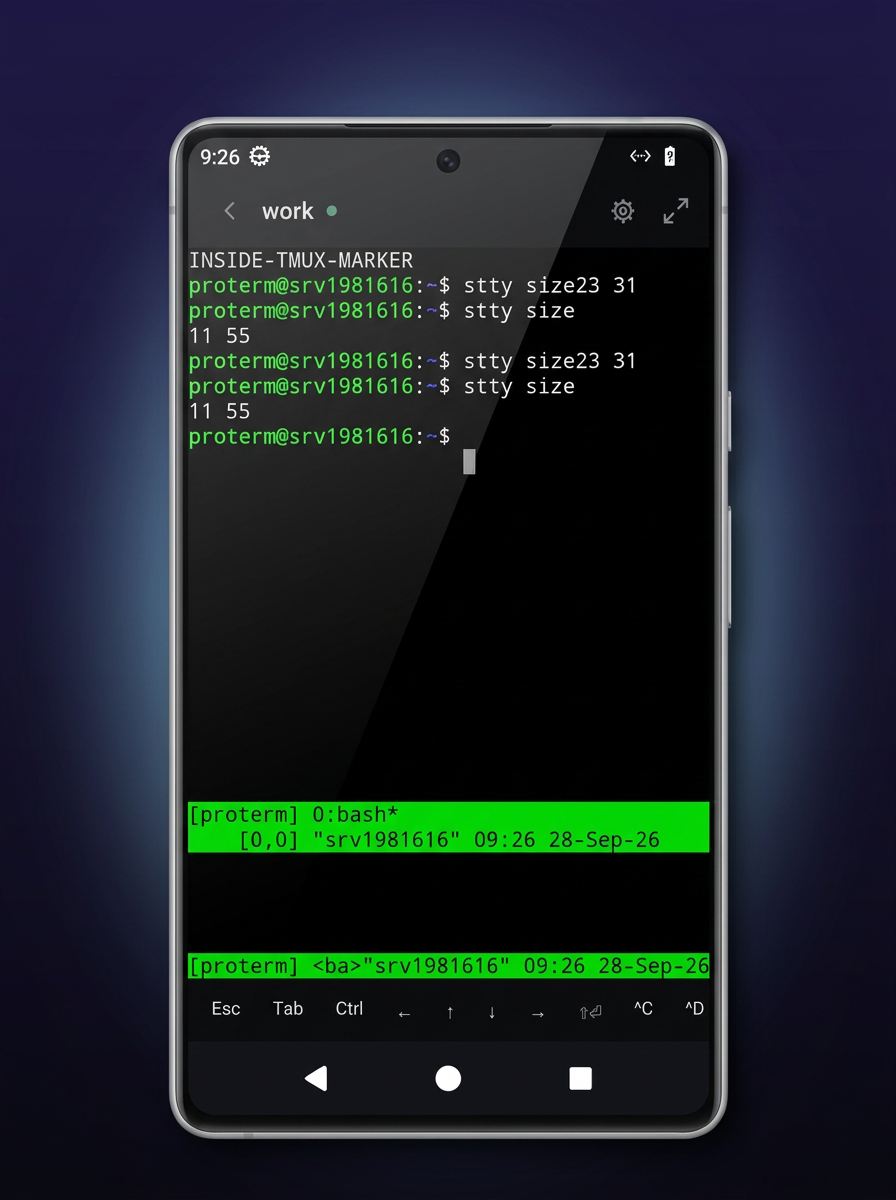
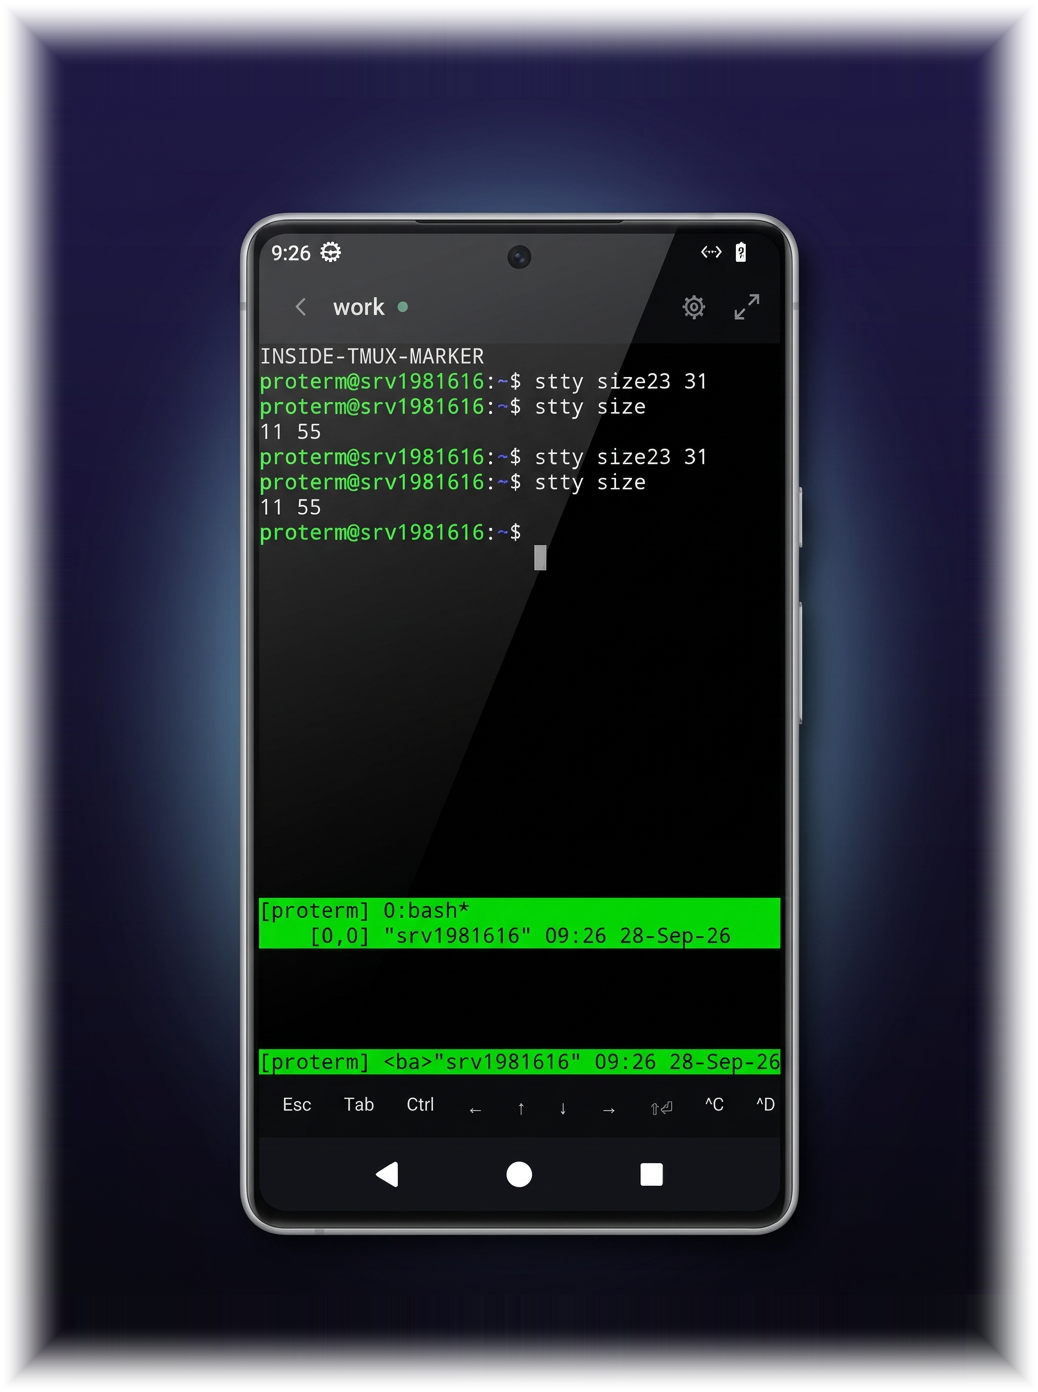
Merge the page into the hero field; invert to light text
- page field (--bg-top:#202049 -> --bg:#0e0e1a) sampled from the hero image's own
  top and bottom edges, applied as a fixed gradient on body
- hero image edge-replicated ~8% and given a smoothstep alpha feather, so it
  dissolves into the field with no frame, border or shadow
- force a dark scheme (color-scheme: dark) and light text, so the merge holds
  regardless of OS theme
- header, cards and footer retuned to the indigo field

diff --git a/styles.css b/styles.css
@@ -1,35 +1,35 @@
-/* Bitlane / ProTerm — Linear-anchored tokens mirrored from the app
-   (android/.../ui/theme/Color.kt, Tokens.kt). No JavaScript, no build step. */
+/* Bitlane / ProTerm — Linear-anchored tokens, set to the hero image's field so the
+   two merge. No JavaScript, no build step. */
 
 :root{
-  --bg:#0b0c0e;
-  --surface:#121316;
-  --elev:#1c1e23;
-  --line:#23252b;
-  --line2:#2c2f36;
-  --fg:#e8e8ea;
-  --muted:#8a8f98;
-  --faint:#62666d;
-  --accent:#5e6ad2;
-  --accent-hi:#6c77df;
+  color-scheme: dark;
+  --bg-top:#202049;      /* matches the top of the hero image */
+  --bg-mid:#14132b;
+  --bg:#0e0e1a;          /* matches the bottom of the hero image */
+  --surface:#17172b;
+  --elev:#20203a;
+  --line:#2a2a44;
+  --line2:#373754;
+  --fg:#ececf2;
+  --muted:#9b9bb4;
+  --faint:#6d6d88;
+  --accent:#8a93ee;
+  --accent-hi:#a2aaf6;
   --radius:8px;
   --radius-card:14px;
   --sans:-apple-system,BlinkMacSystemFont,"Segoe UI",Inter,Roboto,Helvetica,Arial,sans-serif;
   --mono:ui-monospace,SFMono-Regular,"SF Mono",Menlo,Consolas,"Liberation Mono",monospace;
 }
-@media (prefers-color-scheme: light){
-  :root{
-    --bg:#fafafa; --surface:#ffffff; --elev:#e9e9eb; --line:#e2e2e5; --line2:#c7c7cc;
-    --fg:#16161a; --muted:#66666e; --faint:#9a9aa2; --accent:#5e6ad2; --accent-hi:#4b57c8;
-  }
-}
 
 *{box-sizing:border-box}
 html{scroll-behavior:smooth}
 body{
-  margin:0;background:var(--bg);color:var(--fg);
+  margin:0;color:var(--fg);
   font-family:var(--sans);font-size:16px;line-height:1.6;
   -webkit-font-smoothing:antialiased;text-rendering:optimizeLegibility;
+  background-color:var(--bg);
+  background-image:linear-gradient(180deg, var(--bg-top) 0%, var(--bg-mid) 55%, var(--bg) 100%);
+  background-attachment:fixed;
 }
 a{color:var(--accent);text-decoration:none}
 a:hover{color:var(--accent-hi);text-decoration:underline}
@@ -42,8 +42,9 @@ code,.mono{font-family:var(--mono);font-size:.9em}
 .narrow{max-width:720px;margin:0 auto;padding:0 24px}
 
 /* Header */
-.site-header{position:sticky;top:0;z-index:20;border-bottom:1px solid var(--line);
-  background:var(--bg);background:color-mix(in srgb, var(--bg) 82%, transparent);
+.site-header{position:sticky;top:0;z-index:20;
+  background:var(--bg-top);
+  background:color-mix(in srgb, var(--bg-top) 62%, transparent);
   backdrop-filter:saturate(140%) blur(12px)}
 .site-header .wrap{display:flex;align-items:center;gap:20px;height:60px}
 .brand{display:flex;align-items:center;gap:9px;font-weight:600;color:var(--fg)}
@@ -58,16 +59,16 @@ code,.mono{font-family:var(--mono);font-size:.9em}
 .btn{display:inline-flex;align-items:center;gap:9px;padding:11px 18px;border-radius:var(--radius);
   font-size:14px;font-weight:600;border:1px solid transparent;transition:background .15s,border-color .15s,color .15s}
 .btn:hover{text-decoration:none}
-.btn-primary{background:#fff;color:#0b0c0e}
-.btn-primary:hover{background:#e9e9eb;color:#0b0c0e}
+.btn-primary{background:#fff;color:#16162a}
+.btn-primary:hover{background:#e9e9ef;color:#16162a}
 .btn-ghost{border-color:var(--line2);color:var(--fg)}
-.btn-ghost:hover{border-color:var(--muted);background:var(--surface);color:var(--fg)}
-.btn-disabled{background:var(--elev);color:var(--muted);border-color:var(--line2);cursor:default}
+.btn-ghost:hover{border-color:var(--muted);background:color-mix(in srgb, var(--fg) 8%, transparent);color:var(--fg)}
+.btn-disabled{background:color-mix(in srgb, var(--fg) 10%, transparent);color:var(--muted);border-color:var(--line2);cursor:default}
 .btn-disabled:hover{color:var(--muted)}
 
 /* Hero */
-.hero{padding:78px 0 84px;border-bottom:1px solid var(--line)}
-.hero-grid{display:grid;grid-template-columns:1fr .82fr;gap:56px;align-items:center}
+.hero{padding:74px 0 88px}
+.hero-grid{display:grid;grid-template-columns:1fr .9fr;gap:48px;align-items:center}
 .eyebrow{font-family:var(--mono);font-size:12px;letter-spacing:.14em;text-transform:uppercase;
   color:var(--muted);margin:0 0 16px}
 .hero h1{font-size:clamp(36px,5.6vw,58px);font-weight:600;letter-spacing:-0.035em}
@@ -78,44 +79,46 @@ code,.mono{font-family:var(--mono);font-size:.9em}
 .proof span::before{content:"";display:inline-block;width:5px;height:5px;border-radius:50%;
   background:var(--accent);margin-right:7px;vertical-align:middle}
 .hero-art{display:flex;justify-content:center}
-.hero-art img{width:100%;max-width:360px;height:auto;border-radius:var(--radius-card);
-  border:1px solid var(--line2);box-shadow:0 24px 60px rgba(0,0,0,.5)}
+/* the hero art is pre-feathered to alpha, so it dissolves into the field; no frame */
+.hero-art img{width:100%;max-width:470px;height:auto;border:none;box-shadow:none}
 
 /* Section 2 — three points */
-.band{padding:72px 0}
+.band{padding:20px 0 84px}
 .points{display:grid;grid-template-columns:repeat(3,1fr);gap:20px}
-.point{border:1px solid var(--line);border-radius:var(--radius-card);background:var(--surface);padding:22px}
+.point{border:1px solid var(--line);border-radius:var(--radius-card);
+  background:color-mix(in srgb, var(--surface) 72%, transparent);padding:22px}
 .point h3{font-size:16px;font-weight:600;margin-bottom:8px}
 .point p{color:var(--muted);font-size:14.5px;margin:0}
 .band-foot{margin-top:28px;font-size:14.5px}
 
 /* Footer */
-.site-footer{border-top:1px solid var(--line);padding:34px 0 44px;color:var(--muted);font-size:14px}
+.site-footer{padding:34px 0 48px;color:var(--muted);font-size:14px;
+  border-top:1px solid color-mix(in srgb, var(--fg) 8%, transparent)}
 .site-footer .wrap{display:flex;justify-content:space-between;align-items:center;gap:18px;flex-wrap:wrap}
 .site-footer .brand{font-size:14px}
 .site-footer a{color:var(--muted)}
 .site-footer a:hover{color:var(--fg)}
 
 /* Legal pages */
-.legal-head{padding:56px 0 8px}
+.legal-head{padding:52px 0 8px}
 .legal-head .eyebrow{margin-bottom:10px}
 .legal-head h1{font-size:clamp(28px,4vw,38px)}
 .legal-body{padding:8px 0 80px}
-.legal-meta{background:var(--surface);border:1px solid var(--line);border-radius:var(--radius-card);
-  padding:18px 20px;margin:26px 0}
+.legal-meta{background:color-mix(in srgb, var(--surface) 72%, transparent);border:1px solid var(--line);
+  border-radius:var(--radius-card);padding:18px 20px;margin:26px 0}
 .legal-meta p{margin:3px 0;font-size:14px;color:var(--muted)}
 .legal-meta b{color:var(--fg);font-weight:600}
 .legal-body>p{margin:14px 0}
 .legal-body h2{font-size:19px;margin:40px 0 8px;letter-spacing:-0.01em}
 .legal-body ul{padding-left:22px}
 .legal-body li{margin:7px 0}
-.legal-body code{background:var(--elev);border:1px solid var(--line);border-radius:5px;padding:1px 6px}
+.legal-body code{background:color-mix(in srgb, var(--fg) 10%, transparent);border:1px solid var(--line);border-radius:5px;padding:1px 6px}
 
 @media (max-width:820px){
-  .hero{padding:56px 0 64px}
+  .hero{padding:52px 0 64px}
   .hero-grid{grid-template-columns:1fr;gap:40px}
   .hero-art{order:-1}
-  .hero-art img{max-width:300px}
+  .hero-art img{max-width:330px}
   .points{grid-template-columns:1fr}
 }
 @media (max-width:560px){

diff --git a/index.html b/index.html
@@ -5,7 +5,7 @@
 <meta name="viewport" content="width=device-width, initial-scale=1">
 <title>ProTerm — AI agent SSH terminal for Android · Bitlane</title>
 <meta name="description" content="ProTerm is a free, private SSH terminal for Android that runs Claude Code, Codex and opencode in tmux. No account, no tracking.">
-<meta name="theme-color" content="#0b0c0e">
+<meta name="theme-color" content="#202049">
 <meta property="og:title" content="ProTerm — Your agents, from your phone.">
 <meta property="og:description" content="A free, private SSH terminal for Android that runs AI coding agents in tmux.">
 <meta property="og:type" content="website">
@@ -56,7 +56,7 @@
       <div class="hero-art">
         <picture>
           <source srcset="assets/hero.webp" type="image/webp">
-          <img src="assets/hero.png" width="896" height="1200"
+          <img src="assets/hero.png" width="1038" height="1392"
                alt="ProTerm running an AI coding agent in tmux on a Pixel phone.">
         </picture>
       </div>

diff --git a/privacy.html b/privacy.html
@@ -5,7 +5,7 @@
 <meta name="viewport" content="width=device-width, initial-scale=1">
 <title>Privacy Policy — ProTerm · Bitlane</title>
 <meta name="description" content="ProTerm collects no personal data. It has no servers, no accounts, no analytics and no ads. Read the full privacy policy.">
-<meta name="theme-color" content="#0b0c0e">
+<meta name="theme-color" content="#202049">
 <link rel="icon" href="assets/logo.svg" type="image/svg+xml">
 <link rel="apple-touch-icon" href="assets/app-icon-512.png">
 <link rel="canonical" href="https://www.bitlane.in/privacy">

diff --git a/404.html b/404.html
@@ -4,7 +4,7 @@
 <meta charset="utf-8">
 <meta name="viewport" content="width=device-width, initial-scale=1">
 <title>Not found — Bitlane</title>
-<meta name="theme-color" content="#0b0c0e">
+<meta name="theme-color" content="#202049">
 <link rel="icon" href="/assets/logo.svg" type="image/svg+xml">
 <link rel="stylesheet" href="/styles.css">
 </head>

diff --git a/README.md b/README.md
@@ -36,13 +36,18 @@ character. Generator: `/tmp/opencode/hero.py` (endpoint
 `https://ai-gateway.vercel.sh/v1/chat/completions`, key read from
 `~/.local/share/opencode/auth.json` under `.vercel.key` — never commit the key).
 
+The shipped file is then edge-replicated by ~8% and given a smoothstep alpha feather,
+so its outer band is transparent and it dissolves into the page field instead of
+sitting in a visible rectangle. The page field (`--bg-top:#202049` → `--bg:#0e0e1a`)
+is sampled from the image's own top and bottom edges.
+
 ## Design
 
 The site mirrors the app's Linear-anchored language
-(`../terminalV2/android/.../ui/theme/Color.kt` and `Tokens.kt`): near-black surfaces
-(`#0b0c0e`), `#23252b` hairlines, the indigo action accent `#5e6ad2`, system sans for
-prose and a mono face for metadata. Light mode is supplied via `prefers-color-scheme`,
-using the same light tokens as the app. The logo is the chosen **Dock** mark.
+(`../terminalV2/android/.../ui/theme/Color.kt` and `Tokens.kt`): a dark indigo field
+sampled from the hero image, hairline borders, an indigo action accent, system sans for
+prose and a mono face for metadata. It is dark-only (`color-scheme: dark`) so the field
+always merges with the hero; the text is light. The logo is the chosen **Dock** mark.
 
 ## Publish with GitHub Pages
 
